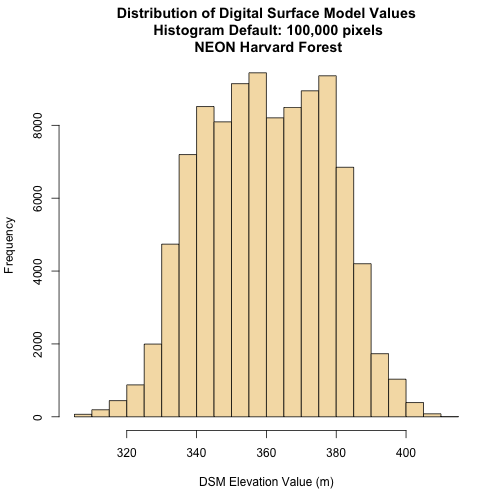
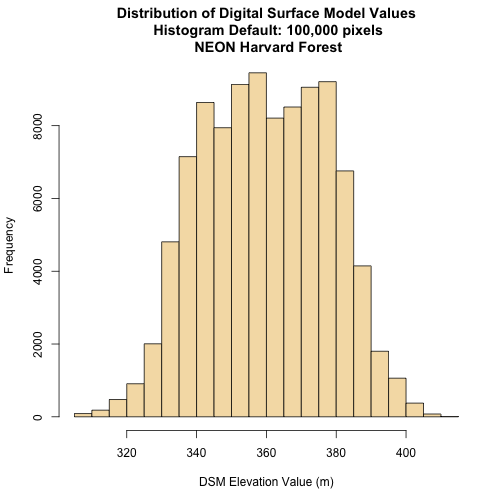
single change to SR07 & rebuild

diff --git a/_posts/R/dc-spatial-raster/2016-01-07-SR07-Extract-NDVI-From-Rasters-in-R.md b/_posts/R/dc-spatial-raster/2016-01-07-SR07-Extract-NDVI-From-Rasters-in-R.md
@@ -2,7 +2,7 @@
 layout: post
 title: "Raster 07: Extract NDVI Summary Values from a Raster Time Series"
 date: 2015-10-22
-authors: [Leah A. Wasser, Megan A. Jones, Zack Bryn, Kristina Riemer, Jason Williams, Jeff Hollister,  Mike Smorul]
+authors: [Leah A. Wasser, Megan A. Jones, Zack Bryn, Kristina Riemer, Jason Williams, Jeff Hollister, Mike Smorul]
 contributors: [ ]
 packagesLibraries: [raster, rgdal, ggplot2]
 dateCreated: 2014-11-26
@@ -233,7 +233,7 @@ Storing this data as a date object is better - for plotting, data subsetting and
 working with our data. Let's convert.
 
 For more information on date-time classes, see the NEON Data Skills tutorial 
-[Convert Date & Time Data from Character Class to Date-Time Class (POSIX) in R]({{ site.baseurl}} /R/Time-Series-Convert-Date-Time-Class-POSIX/).  
+[Convert Date & Time Data from Character Class to Date-Time Class (POSIX) in R]({{ site.baseurl}}/R/time-series-convert-date-time-class-POSIX/).  
 
 To convert a Julian Day number to a date class, we need to set the **origin**
 of the day which "counting" Julian Days began. Our data is from 2011, and we 

diff --git a/_posts/R/dc-spatial-raster/2016-01-07-SR01-Plot-Raster.md b/_posts/R/dc-spatial-raster/2016-01-07-SR01-Plot-Raster.md
@@ -130,7 +130,7 @@ break values.
 
     DSMhist$counts
 
-    ## [1] 32238 67313   449
+    ## [1] 32283 67246   471
 
 Warning message!? Remember, the default for the histogram is to include only a
 subset of 100,000 values. We could force it to show all the pixel values or we
